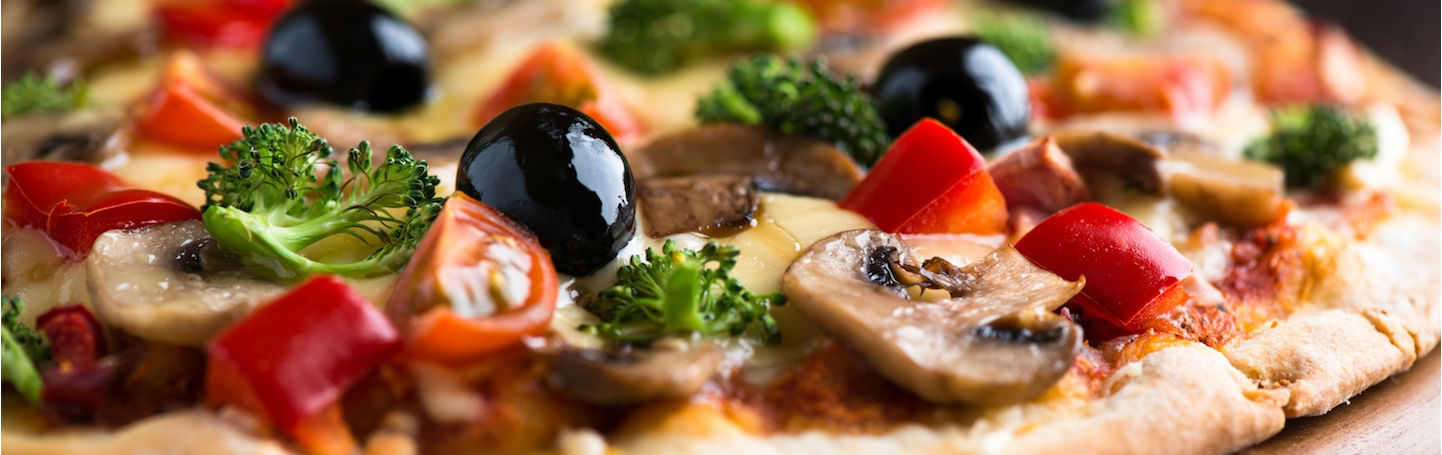
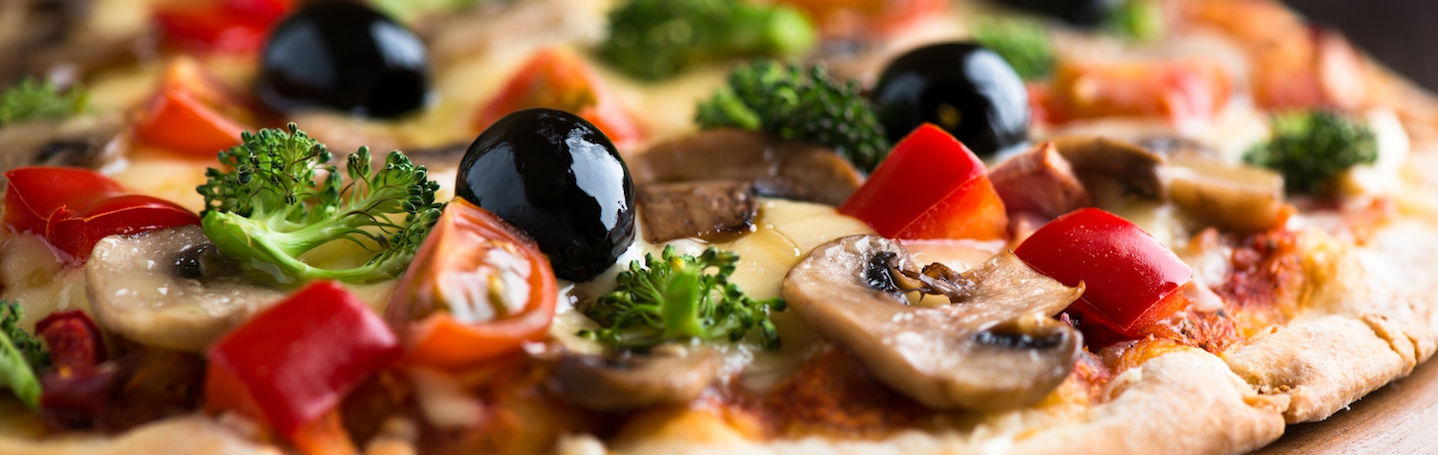
change to registerController

diff --git a/public/css/styles.css b/public/css/styles.css
@@ -90,14 +90,6 @@
         height: 60px;
     }
 
-    #nav a {
-        color: white;
-        text-decoration: none;
-        padding: 2px 5px 2px 5px;
-        background-color: red;
-        height: 60px;
-        width: 200px;
-    }
     
     #form label {
         margin-left: 15px;

diff --git a/app/Http/Controllers/CartController.php b/app/Http/Controllers/CartController.php
@@ -127,10 +127,20 @@ class CartController extends Controller
             //     }
             // );
            
-            Mail::send('confirm', ['user' => $user],
-               function($message) use ($user) {
-                $message->to($user->email);
-                $message->subject('Mailgun Testing');
+            // Mail::send('confirm', ['user' => $user],
+            //    function($message) use ($user) {
+            //     $message->to($user->email);
+            //     $message->subject('Mailgun Testing');
+            // });
+
+            Mail::send('confirm', ['user' => $user], function($message) use ($user) {
+
+                $recipient_email = $user->email;
+                $recipient_name  = $user->name;
+                $subject  = 'A test email';
+
+                $message->to($recipient_email, $recipient_name)->subject($subject);
+
             });
 
         }

diff --git a/app/Http/Controllers/Auth/RegisterController.php b/app/Http/Controllers/Auth/RegisterController.php
@@ -53,6 +53,8 @@ class RegisterController extends Controller
             'name' => 'required|string|max:255',
             'email' => 'required|string|email|max:255|unique:users',
             'password' => 'required|string|min:6|confirmed',
+            'phoneNumber' => 'required|alpha_dash|size:12 ',
+            'zipcode' => 'required|numeric|min:5',
         ]);
     }
 
@@ -65,11 +67,12 @@ class RegisterController extends Controller
     protected function create(array $data)
     {
         
-
         return User::create([
             'name' => $data['name'],
             'email' => $data['email'],
             'password' => bcrypt($data['password']),
+            'phoneNumber' => $data['phoneNumber'],
+            'zipcode' => $data['zipcode'],
         ]);
     }
 }

diff --git a/database/seeds/Order_ProductTableSeeder.php b/database/seeds/Order_ProductTableSeeder.php
@@ -13,11 +13,11 @@ class Order_ProductTableSeeder extends Seeder
      */
     public function run()
     {
+
     	// $orders = Orders::get();
 
 
-
-    	// for ($i=1; $i < count($orders) ; $i++) { 
+    	// for ($orders as $order) { 
 
     	// 	DB::table('order_product')->insert([
 		   //      'created_at' => Carbon\Carbon::now()->toDateTimeString(),
@@ -27,6 +27,7 @@ class Order_ProductTableSeeder extends Seeder
 	    //     ]);
     	// 	# code...
     	// }
+    	
         DB::table('order_product')->insert([
 	        'created_at' => Carbon\Carbon::now()->toDateTimeString(),
 	        'updated_at' => Carbon\Carbon::now()->toDateTimeString(),

diff --git a/resources/views/index.blade.php b/resources/views/index.blade.php
@@ -16,7 +16,7 @@
  
         <div class="carousel-inner">
         <div class="item active">
-          <img class="img-rounded" src="/images/PizzaPageBanner.jpg" alt="00">
+          <img class="img-rounded" src="/images/pizza-pic4.jpg" alt="00">
           <div class="carousel-caption">
 
             <p></p>
@@ -31,7 +31,7 @@
           </div>
         </div> 
         <div class="item">
-          <img class="img-rounded" src="/images/pizza-pic4.jpg" alt="47">
+          <img class="img-rounded" src="/images/pizza-pic6.jpg" alt="47">
           <div class="carousel-caption">
 
             <p></p>

diff --git a/config/mail.php b/config/mail.php
@@ -54,11 +54,7 @@ return [
     | used globally for all e-mails that are sent by your application.
     |
     */
-
-    'from' => [
-        'address' => env('MAIL_FROM_ADDRESS', 'jodymoorellc@live.com'),
-        'name' => env('MAIL_FROM_NAME', 'jodymoorellc'),
-    ],
+    'from' => array('address' => 'mail@a4.com', 'name' => 'Quik Pizza'),
 
     /*
     |--------------------------------------------------------------------------

diff --git a/resources/views/edit.blade.php b/resources/views/edit.blade.php
@@ -84,7 +84,7 @@
 
 	        <input type='hidden' name='id' value='{{ $user->id }}'>
 		
-		     <input id="DeleteAccount" type="submit" name="deleteAccount" value="DELETE YOUR ACCOUNT" class='btn btn-primary  btn-small'>
+		    <input id="DeleteAccount" type="submit" name="deleteAccount" value="DELETE YOUR ACCOUNT" class='btn btn-primary  btn-small'>
 
        </form>
     </div>
